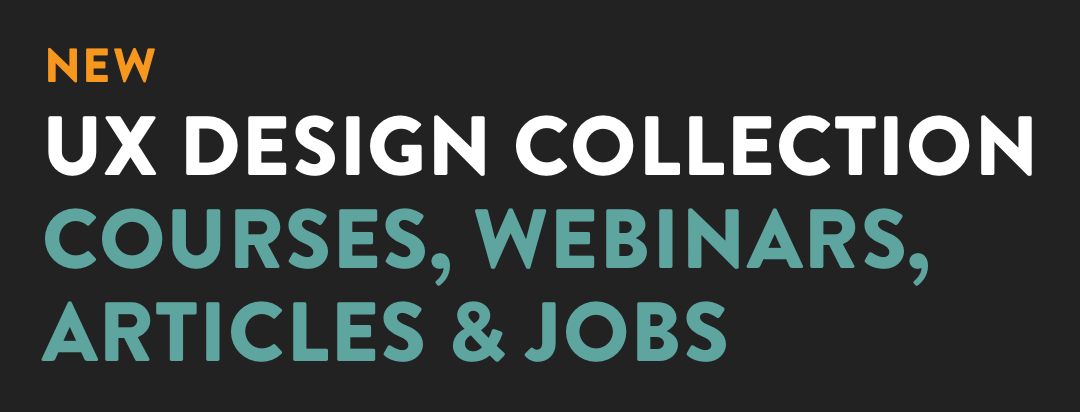
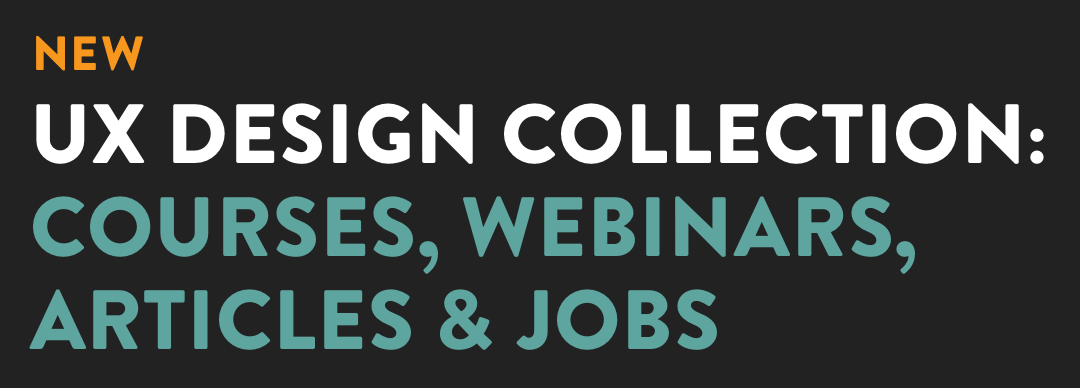
Update UX Design Landing Page email comp
Add colon to heading in artwork.

Changed region(s): [[0.0306, 0.4948, 0.8556, 0.8969], [0.0306, 0.2474, 0.9778, 0.433], [0.0306, 0.0928, 0.1528, 0.2165]]

diff --git a/gym-emails/ux-design-landing-page-email/index.html b/gym-emails/ux-design-landing-page-email/index.html
@@ -54,7 +54,7 @@ table td {padding: 0;}
           </p>
           <div class="leading-21" style="font-family: monospace, monospace; font-size: 21px; line-height: 21px; padding: 0; margin: 0;"><br></div>
           <a href="" target="_blank" title="Explore Our UX Design Collection" style="display: block; text-decoration: none; outline: 0; cursor: pointer;">
-           <img alt="New UX Design Collection" src="img/gym-banner-email-ux-design-2x.png" width="540" height="206" style="display: block; font-family: 'Helvetica Neue', Helvetica, Arial, 'Droid Sans', sans-serif; font-size: 24px; font-weight: bold; color: #222222; vertical-align: middle; width: 100%; max-width: 100%; height: auto; border: 1px solid #f8971d; -ms-interpolation-mode: bicubic;">
+           <img alt="New UX Design Collection" src="img/gym-banner-email-ux-design-2x.png" width="540" height="194" style="display: block; font-family: 'Helvetica Neue', Helvetica, Arial, 'Droid Sans', sans-serif; font-size: 24px; font-weight: bold; color: #222222; vertical-align: middle; width: 100%; max-width: 100%; height: auto; border: 1px solid #f8971d; -ms-interpolation-mode: bicubic;">
           </a>
           <div class="leading-21" style="font-family: monospace, monospace; font-size: 21px; line-height: 21px; padding: 0; margin: 0;"><br></div>
           <p style="font-family: 'Helvetica Neue', Helvetica, Arial, 'Droid Sans', sans-serif; font-weight: normal; font-size: 16px; line-height: 22px; color: #222222; padding: 0; margin: 0;">
